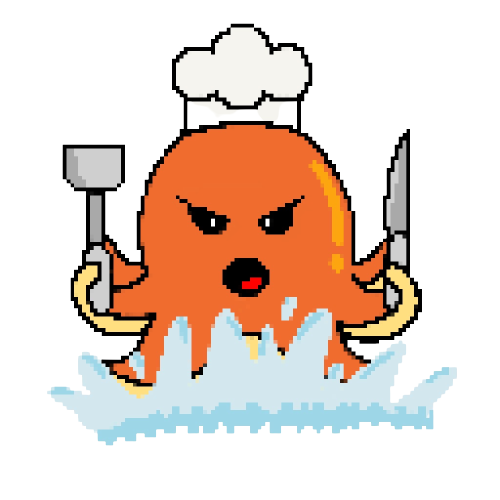
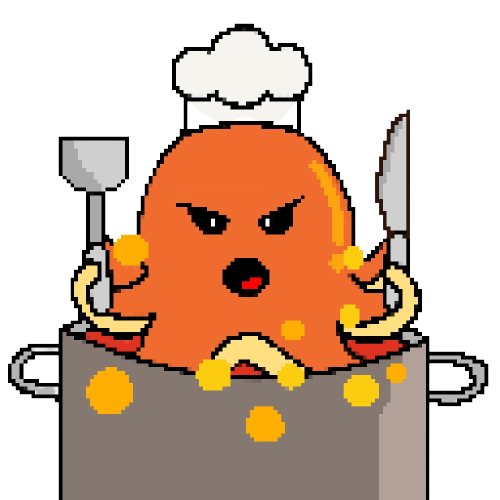
add dead octopus

diff --git a/src/KillOctopus.java b/src/KillOctopus.java
@@ -36,10 +36,11 @@ public class KillOctopus implements MouseListener{
         lbOctopus.addMouseListener(this);
         tOctopus = new Thread(lbOctopus);
         
-        imgSea1 = new ImageIcon(getClass().getResource("/objects/sea.jpg"));
+        imgSea1 = new ImageIcon(getClass().getResource("/objects/smoke.jpg"));
         imgSea2 = new ImageIcon(imgSea1.getImage().getScaledInstance(400, 400, Image.SCALE_SMOOTH));
         lbSea = new JLabel(imgSea2);
         lbCount.setFont(new Font("Arial", 1, 28));
+        lbCount.setForeground(Color.white);
        
         frMonster.setLayout(null);
         Dimension sizeMon = lbOctopus.getPreferredSize();
@@ -116,8 +117,8 @@ public class KillOctopus implements MouseListener{
     public static void setMonFrame(JFrame frMonster){
         KillOctopus.frMonster = frMonster;
     }
-    public static void main(String[] args) {
-        new KillOctopus();
-    }
+//    public static void main(String[] args) {
+//        new KillOctopus();
+//    }
     
 }

diff --git a/src/ClockOctopus.java b/src/ClockOctopus.java
@@ -26,13 +26,14 @@ public class ClockOctopus extends JLabel implements Runnable{
                 this.setText(String.format("%02d Seconds", sec));
                 Dimension sizeClock = this.getPreferredSize();
                 this.setBounds(130, 300, sizeClock.width, sizeClock.height);
+                this.setForeground(Color.white);
 
                 this.setRemainTime(sec);
                 if ((this.getRemainTime() >= 0) && (KillOctopus.getCountDown() <= 0)){ // Win Case
                     state = 1;
                     sec = 0;
                     KillOctopus.getMonFrame().setVisible(false);
-                    new DeadShark();
+                    new DeadOctopus();
                     this.setRemainTime(10);
                     KillOctopus.setCountdown(10);
                     break;
